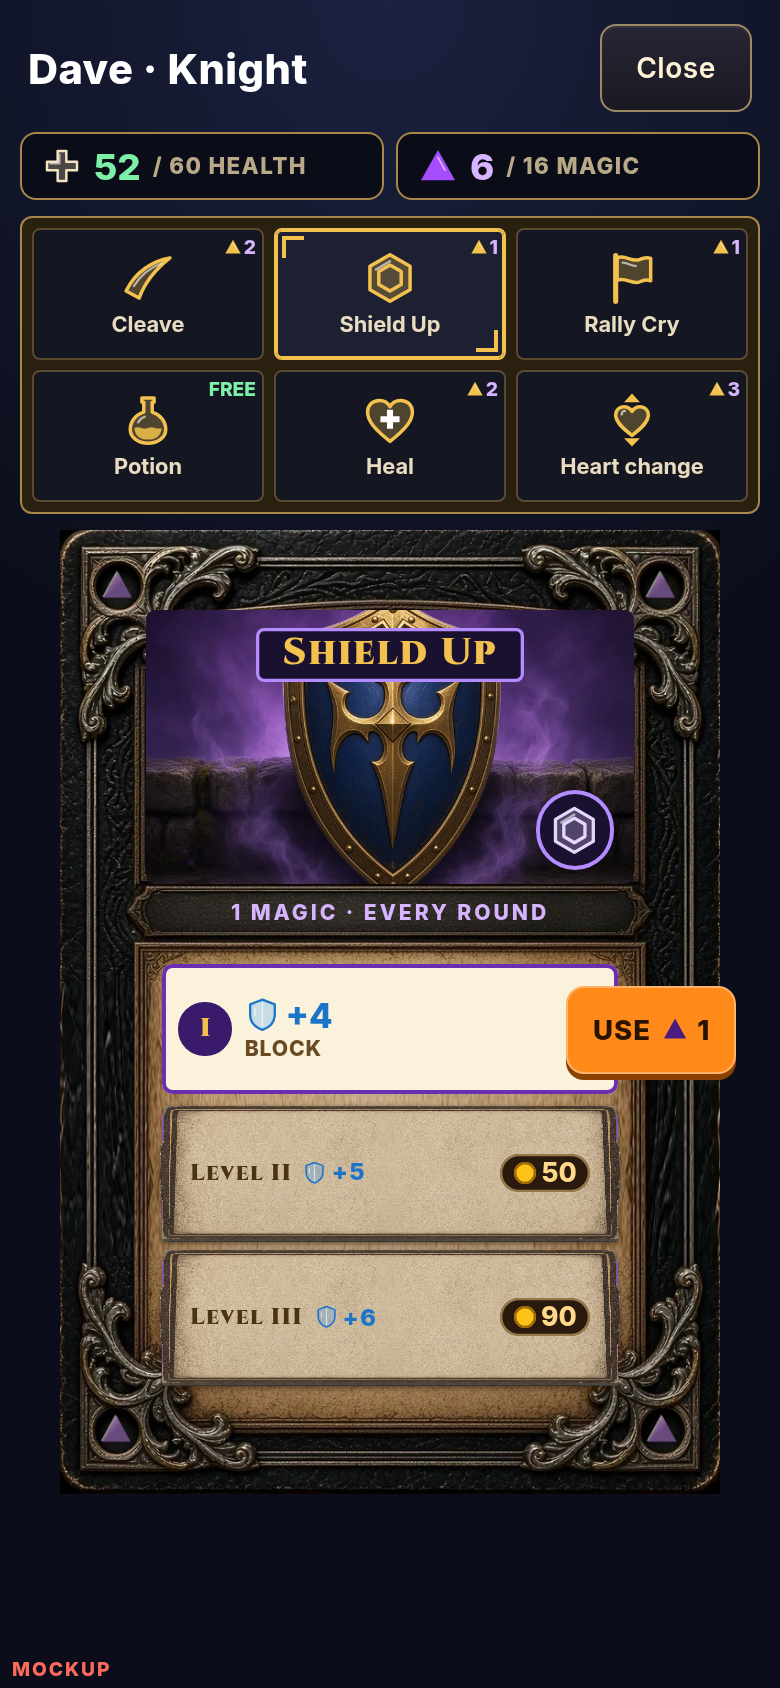
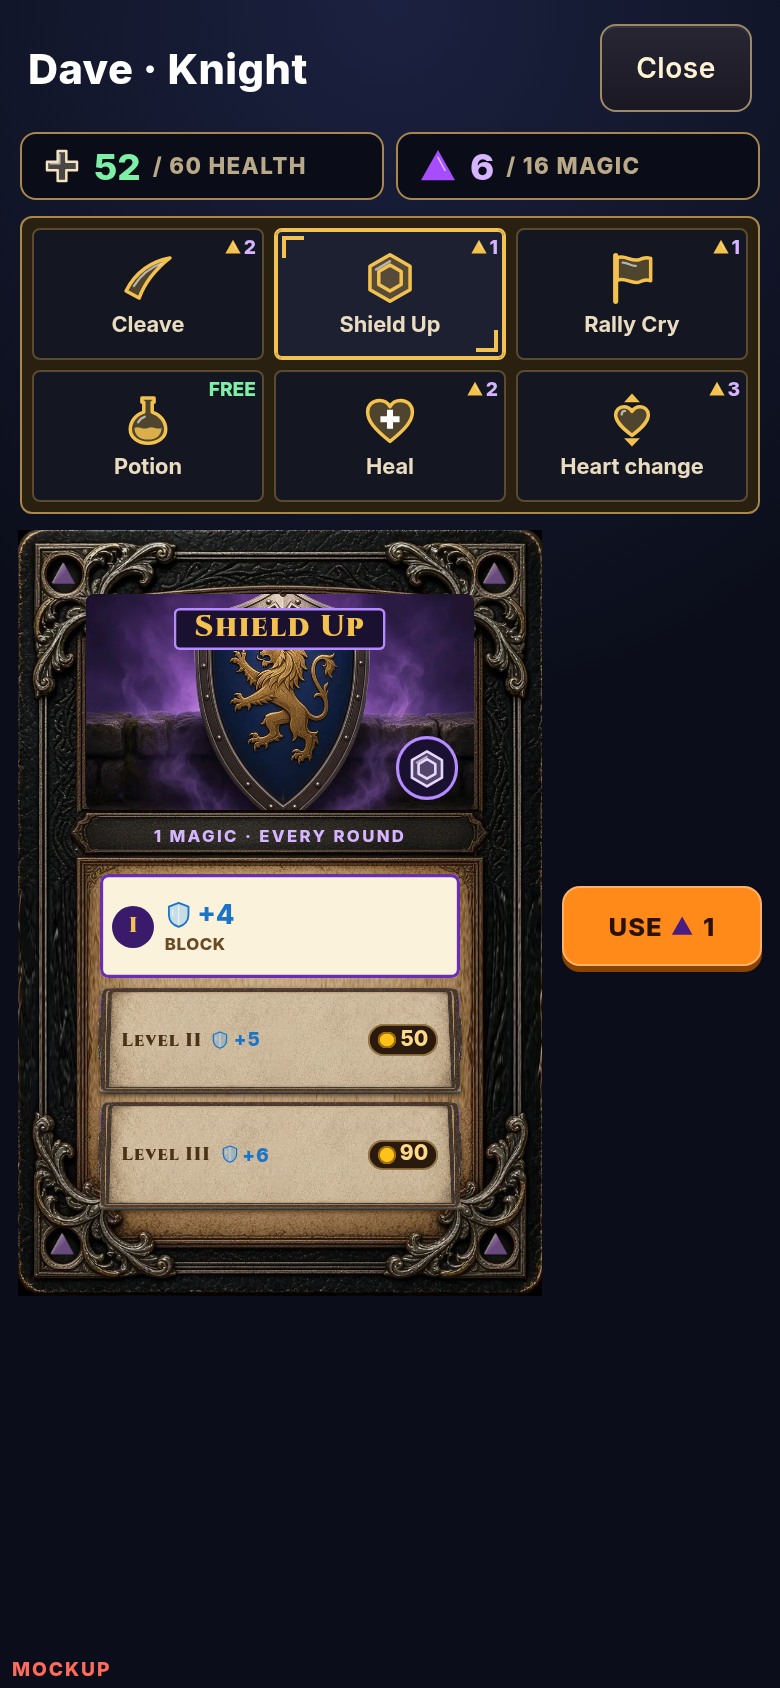
Mockup only: t414 Knight pass - Cleave 2d6/3d6/3d8 path + cast frame, Riposte and Spoils of War PROPOSED, Judgment card, lion Shield Up art, KNIGHT.md with splash findings

diff --git a/docs/team/mockups/magiccards/magic.js b/docs/team/mockups/magiccards/magic.js
@@ -12,13 +12,19 @@ const PROP = cls === 'ranger' ? [
   { id: 'mark', slot: 'A', name: "Hunter's Mark", kind: 'flat', cost: 1, fx: { pierce: 2, gold: 3 }, note: 'PIERCE NOW · GOLD IF IT FALLS THIS ROUND', prop: true },
   { id: 'herbs', slot: 'B', name: 'Forager', kind: 'dice', cost: 2, dice: { n: 2, s: 6, to: 'heal' }, prop: true },
   D.CLASSES.ranger.cards.find((k) => k.id === 'rain'),
+] : cls === 'knight' ? [
+  // t414 PROPOSED Knight unlocks (mockup only)
+  D.CLASSES.knight.cards.find((k) => k.id === 'judgment'),
+  { id: 'riposte', slot: 'B', name: 'Riposte', kind: 'flat', cost: 1, fx: { block: 4 }, note: 'BLOCK LEFT OVER HITS BACK AS ATTACK', prop: true },
+  { id: 'spoils', slot: 'C', name: 'Spoils of War', kind: 'charge', atwill: true, cost: 1, max: 4, per: { atk: 3, gold: 2 }, prop: true },
 ] : [];
 if (PROP.length) C.cards = [...C.cards, ...PROP.filter((k) => k.prop)];
 // t413 PROPOSED Aimed Shot path: I = up to 4d6, II = dice become d8 (up to 4d8), III = up to 6d8. 1 magic per die throughout.
-const AIM = [{ s: 6, m: 4 }, { s: 8, m: 4 }, { s: 8, m: 6 }]; const aimP = (k) => cls === 'ranger' && k?.id === 'aimed';
+const AIM = [{ s: 6, m: 4 }, { s: 8, m: 4 }, { s: 8, m: 6 }]; const CLV = [{ n: 2, s: 6 }, { n: 3, s: 6 }, { n: 3, s: 8 }]; const clvP = (k) => cls === 'knight' && k?.id === 'cleave'; // t414 PROPOSED Cleave path: 2d6 / 3d6 / 3d8
+const aimP = (k) => cls === 'ranger' && k?.id === 'aimed';
 const isProp = PROP.some((k) => k.id === q.get('p'));
 const mine = isProp ? PROP : (C.cards || []).filter((k) => k.start).sort((a, b) => a.slot.localeCompare(b.slot));
-const sel = q.get('p') || mine[0].id; const selKind = (C.cards || []).find((c) => c.id === (q.get('p') || mine[0].id))?.kind; const variant = q.get('v') || (['charge', 'scale'].includes(selKind) || cls === 'ranger' ? 'margin' : 'float'); const charges = +(q.get('c') || 2);
+const sel = q.get('p') || mine[0].id; const selKind = (C.cards || []).find((c) => c.id === (q.get('p') || mine[0].id))?.kind; const variant = q.get('v') || (['charge', 'scale'].includes(selKind) || cls === 'ranger' || cls === 'knight' ? 'margin' : 'float'); const charges = +(q.get('c') || 2);
 const card = (id) => (C.cards || []).find((c) => c.id === id);
 const hero = { name: 'Dave', cls, level: 1 };
 const SVG = 'http://www.w3.org/2000/svg';
@@ -49,10 +55,12 @@ function rows(k, l) {
     return [h('span', { class: 'slots' }, Array.from({ length: S.hi }, (_, i) => (i < S.n ? (() => { const d = die(f, k.dice.s, CAST ? R[i] : 0, true); if (!CAST && i === S.n - 1) d.classList.add('drop'); return d; })() : h('i', { class: `slot0 ${k.dice.s === 8 ? 'd8' : ''} ${i >= S.aff ? 'lock' : ''}`, title: i >= S.aff ? 'not enough magic' : '' })))),
       h('span', { class: 'spent' }, HK.icon('magic'), h('b', {}, `${S.x}`), ` of ${BANK}`, h('span', { class: `wd fx-${f}` }, ` · ${S.n}d${k.dice.s} ${WORD[f]}`)), (CAST && S.n ? h('span', { class: `total fx-${f}` }, `= ${tot} ${WORD[f]}`) : ''), h('span', { class: 'prop' }, aimP(k) ? 'PROPOSED path: II d8 · III 6 dice' : `PROPOSED max ${MAXD} dice` + (S.aff < MAXD ? ` · 🔒 = needs more magic` : ''))]; }
   if (aimP(k)) return [ln(mg(1), eq(), ...dice(1, f, AIM[l].s)), mx(`UP TO ${AIM[l].m}×`, die(f, AIM[l].s, 0, true))];
-  if (k.kind === 'super') return [ln(mg(k.cost), eq(), fxv('pierce', E.scaleNum(k.fx.pierce, l))), mx(`+${E.scaleNum(k.aoe, l)} TO EVERY MONSTER · ROUND ${k.minRound}+`)];
+  if (k.kind === 'super') return [ln(mg(k.cost), eq(), fxv(Object.keys(k.fx)[0], E.scaleNum(Object.values(k.fx)[0], l))), mx(`+${E.scaleNum(k.aoe, l)} TO EVERY MONSTER · ROUND ${k.minRound}+`)];
   if (k.kind === 'scale') { const lo = E.powerDice(k, k.cost, l), hi = E.powerDice(k, E.scaleMax(k, l), l);
     return [ln(mg(k.cost), eq(), ...dice(lo, f, k.dice.s)), mx('UP TO', ...dice(Math.min(hi, 6), f, k.dice.s))]; }
-  if (k.kind === 'dice') { const n = k.dice.n + l; return [ln(mg(k.cost), eq(), ...dice(n, f, k.dice.s)), k.splash === 'half' ? mx('ATTACK + ½ SPLASH') : mx(WORD[f].toUpperCase())]; }
+  if (k.kind === 'dice') { const P = clvP(k) ? CLV[l] : { n: k.dice.n + l, s: k.dice.s }; const n = P.n;
+    if (l === 0 && CAST) { const R = roll(n, P.s); const t = R.reduce((a, b) => a + b, 0); return [ln(...R.map((v) => die(f, P.s, v, true))), h('span', { class: `total fx-${f}` }, `= ${t} ${WORD[f]}`), k.splash === 'half' ? h('span', { class: 'prop' }, `+ ${Math.floor(t / 2)} splash on every other monster`) : '']; }
+    return [ln(mg(k.cost), eq(), ...dice(n, f, P.s)), k.splash === 'half' ? mx('ATTACK + ½ SPLASH') : mx(WORD[f].toUpperCase())]; }
   if (k.kind === 'flat') return [ln(...Object.entries(k.fx).map(([x, v]) => fxv(x, x === 'free' ? v + l : E.scaleNum(v, l)))), mx(k.note ? k.note : k.fx.free ? 'FREE REROLLS' : Object.keys(k.fx).map((x) => WORD[x]).join(' + ').toUpperCase())];
   if (k.kind === 'charge') { const per = typeof k.per === 'number' ? { atk: k.per } : k.per; const fs = Object.keys(per);
     return [ln(...fs.map((x) => h('span', { class: `dots fx-${x}` }, HK.icon(ICON[x]), [1, 2, 3, 4].map((n) => h('span', { class: `dot ${l === 0 && n > charges ? 'g' : ''}` }, String(E.chargeGain(k, n, l)[x])))))), mx(`${charges} STORED · `, h('span', { class: 'wd' }, fs.map((x) => WORD[x]).join(' + ')), k.splash === 'half' ? ' · ½ SPLASH' : '')]; }
@@ -98,9 +106,9 @@ function powerCard() {
 function coverHint(k, l) {
   const f = k.dice?.to;
   if (aimP(k)) return [h('span', { class: 'eq' }, `UP TO ${AIM[l].m}×`), die(f, AIM[l].s, 0, true)];
-  if (k.kind === 'super') return [fxv('pierce', E.scaleNum(k.fx.pierce, l)), h('span', { class: 'eq' }, `+${E.scaleNum(k.aoe, l)} ALL`)];
+  if (k.kind === 'super') return [fxv(Object.keys(k.fx)[0], E.scaleNum(Object.values(k.fx)[0], l)), h('span', { class: 'eq' }, `+${E.scaleNum(k.aoe, l)} ALL`)];
   if (k.kind === 'scale') return [mg(k.cost), h('span', { class: 'eq' }, '='), ...dice(E.powerDice(k, k.cost, l), f, k.dice.s)];
-  if (k.kind === 'dice') return dice(k.dice.n + l, f, k.dice.s);
+  if (k.kind === 'dice') return clvP(k) ? dice(CLV[l].n, f, CLV[l].s) : dice(k.dice.n + l, f, k.dice.s);
   if (k.kind === 'flat') return Object.entries(k.fx).map(([x, v]) => fxv(x, x === 'free' ? v + l : E.scaleNum(v, l)));
   if (k.kind === 'charge') { const per = typeof k.per === 'number' ? { atk: k.per } : k.per; return Object.keys(per).map((x) => fxv(x, E.chargeGain(k, 4, l)[x])); }
   if (k.kind === 'round') return [fxv('atk', E.roundGain(k, 4, l)), h('span', { class: 'eq' }, 'ROUND 4')];

diff --git a/docs/team/mockups/magiccards/KNIGHT.md b/docs/team/mockups/magiccards/KNIGHT.md
@@ -1,0 +1,40 @@
+# Knight magic cards (t414, mockup only)
+
+Numbers come from `js/data.js` / `js/engine.js`. **PROPOSED** = not in the game. Upgrades cost 50 gold (Level II) and 90 gold (Level III).
+Dice are the colour of what they add, with white pips and numbers.
+
+## Splash in the game today (read-only findings)
+- **Power splash (`splash: 'half'`).** Half the power's attack hits every *other* monster (engine.js ~1038-1056, resolved ~1154-1163 solo and ~2214 party). Used by Cleave (Knight), Storm Coil and Meteor (Wizard).
+- **Area damage (`aoe`).** Hits *every* monster, including the target, on top of the power (engine.js 1078). Used by the slot-A big moves: Judgment 12, Rain of Arrows 9, Avalanche 10, Finale 8.
+- **Weapon splash.** Dawnbreaker (legendary sword) has a 4 face that hits every other monster for 2 (data.js 223, `wf.fx.splash`). Fire arrows splash half the hand's Strength on the others, or all of it with FIRE_FULL, and each monster's guard can stop it (data.js 292/303, engine.js 560 and 1128).
+- **Monster breath.** Hits the heroes, not monsters: in a party every hero takes ceil(0.6 × magnitude) (`BREATH_SHARE`, data.js 627/1124, engine.js 1202).
+- **Phase monsters** can only be hurt by pierce and splash (data.js 636).
+- **Is there a general mechanic?** Yes. Any hero power can carry `splash: 'half'` or `aoe: N`, and the engine handles both, solo and in a party. Splash/aoe hits are logged as "Splash N on <monster>".
+
+## Final Knight set (identity: the front line, with splash)
+| | Power | Verb | One line | Cost | Level I / II / III |
+|---|---|---|---|---|---|
+| Start A | Cleave | burst + splash | Roll red attack dice; half the total splashes on every other monster. | 2, once a battle | 2d6 / 3d6 / 3d8 (**PROPOSED path**; live is 2d6/3d6/4d6) |
+| Start B | Shield Up | protection | +4 block every round. | 1 a round | +4 / +5 / +6 |
+| Start C | Rally Cry | build-up | Store 1 magic a round (up to 4), then release attack and block together. | 1 per charge | 4 charges: 20 / 28 / 36 of each |
+| Unlock A | Judgment (live) | area finisher | Round 3 or later: +14 attack on your target and 12 to every monster. | 6 | +14 & 12 / +18 & 15 / +21 & 18 |
+| Unlock B | Riposte (**PROPOSED**) | control / risk | +4 block; any block the monsters don't use hits back as attack. | 1 a round | +4 / +5 / +6 |
+| Unlock C | Spoils of War (**PROPOSED**) | economy | Store 1 magic a round, then release attack and gold. | 1 per charge | 4 charges: 20 atk & 16 gold / 28 & 24 / 36 & 32 |
+
+**Cleave path:** Level II adds a die (3d6) and Level III makes the dice bigger (3d8). Both raise the hit, and the splash is half of it.
+
+**Cuts:**
+- **Press the Attack** (+3 attack a round) is a plain stat stick and overlaps Cleave's offence. Riposte replaces it, turning defence into offence when you read the monster right.
+- **Second Wind** (heal charge) overlaps the Ranger's Forager and the shared Heal/Potion. Spoils of War replaces it and gives the Knight a patient gold plan, unlike the Ranger's gamble with Hunter's Mark.
+
+## Design reasoning
+- **Identity:** the Knight stands in front and hits many monsters. Cleave splashes and Judgment hits everyone, while the Ranger is single-target pierce.
+- **Distinct jobs:** burst-splash (Cleave), protection (Shield Up), build-up (Rally), area finisher (Judgment), reactive defence (Riposte) and slow economy (Spoils). The Ranger's control is rerolls and its economy is a gamble, so the two heroes don't overlap.
+- **Riposte is the fun decision:** over-block on a monster's big Slam and the leftover hits back. You get rewarded for reading the monster's plaque.
+- **Spoils vs Rally** is the same slot and the same storing rhythm, with a different payoff: win harder now, or bank gold for camp upgrades.
+- **Shield Up art:** the trident emblem is replaced by a gold lion. Mockup art only.
+
+## Open questions for Dave
+- Riposte: should leftover block hit back at full value, or half (like splash)?
+- Spoils: is up to 16 gold per battle at Level I too generous?
+- Should Judgment stay the Knight's area move, or should it splash (half) to match Cleave, and give the area moves to other heroes?
